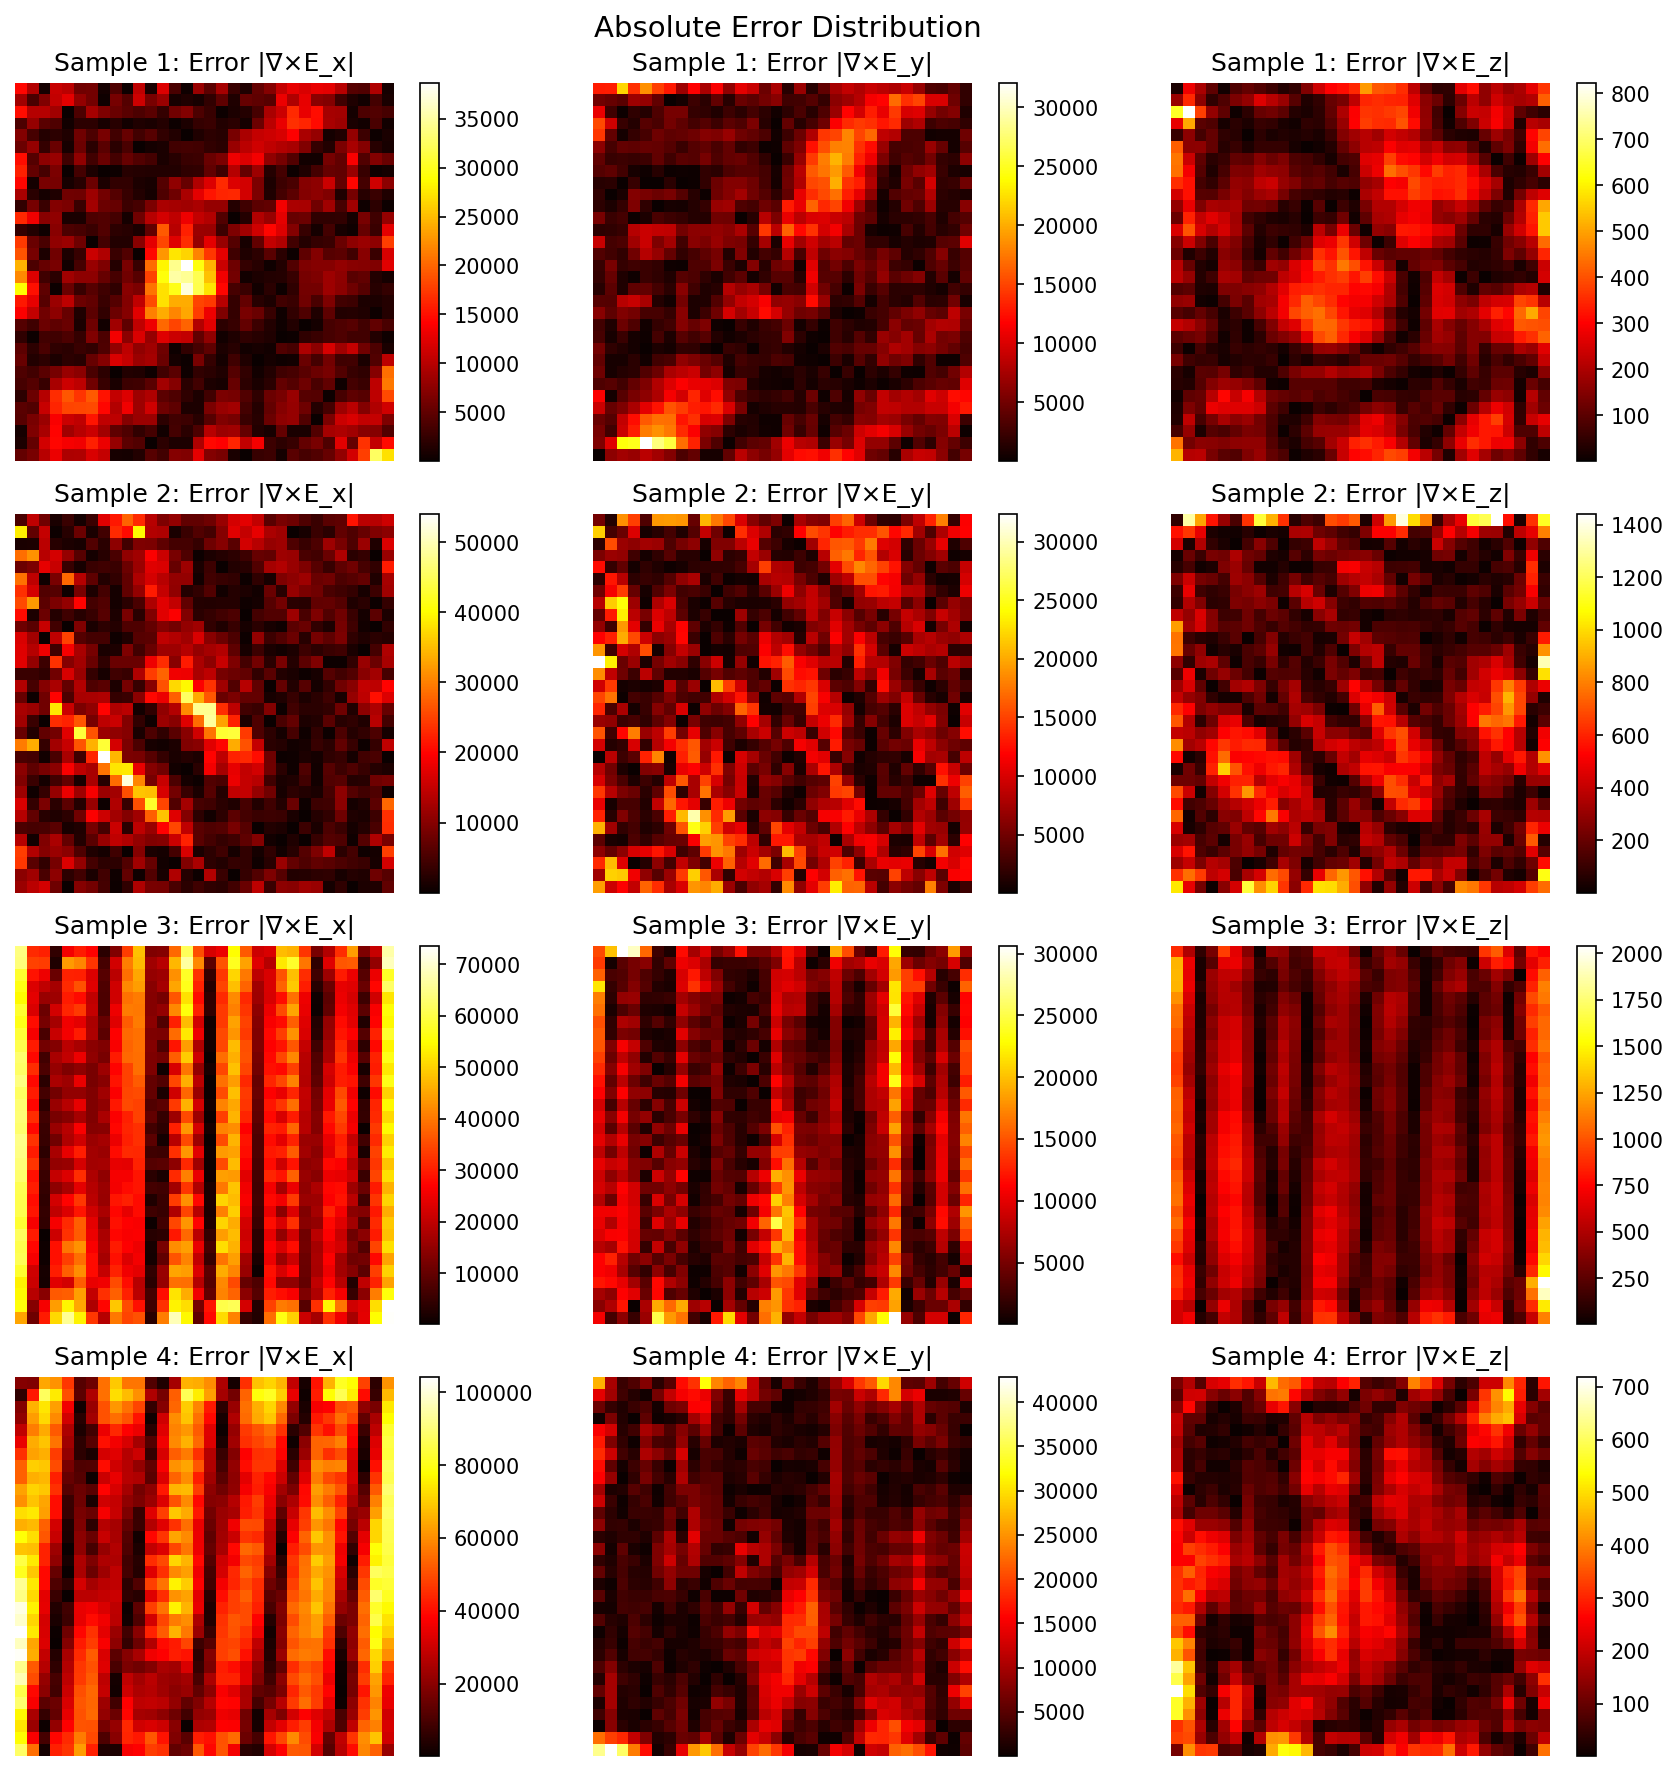
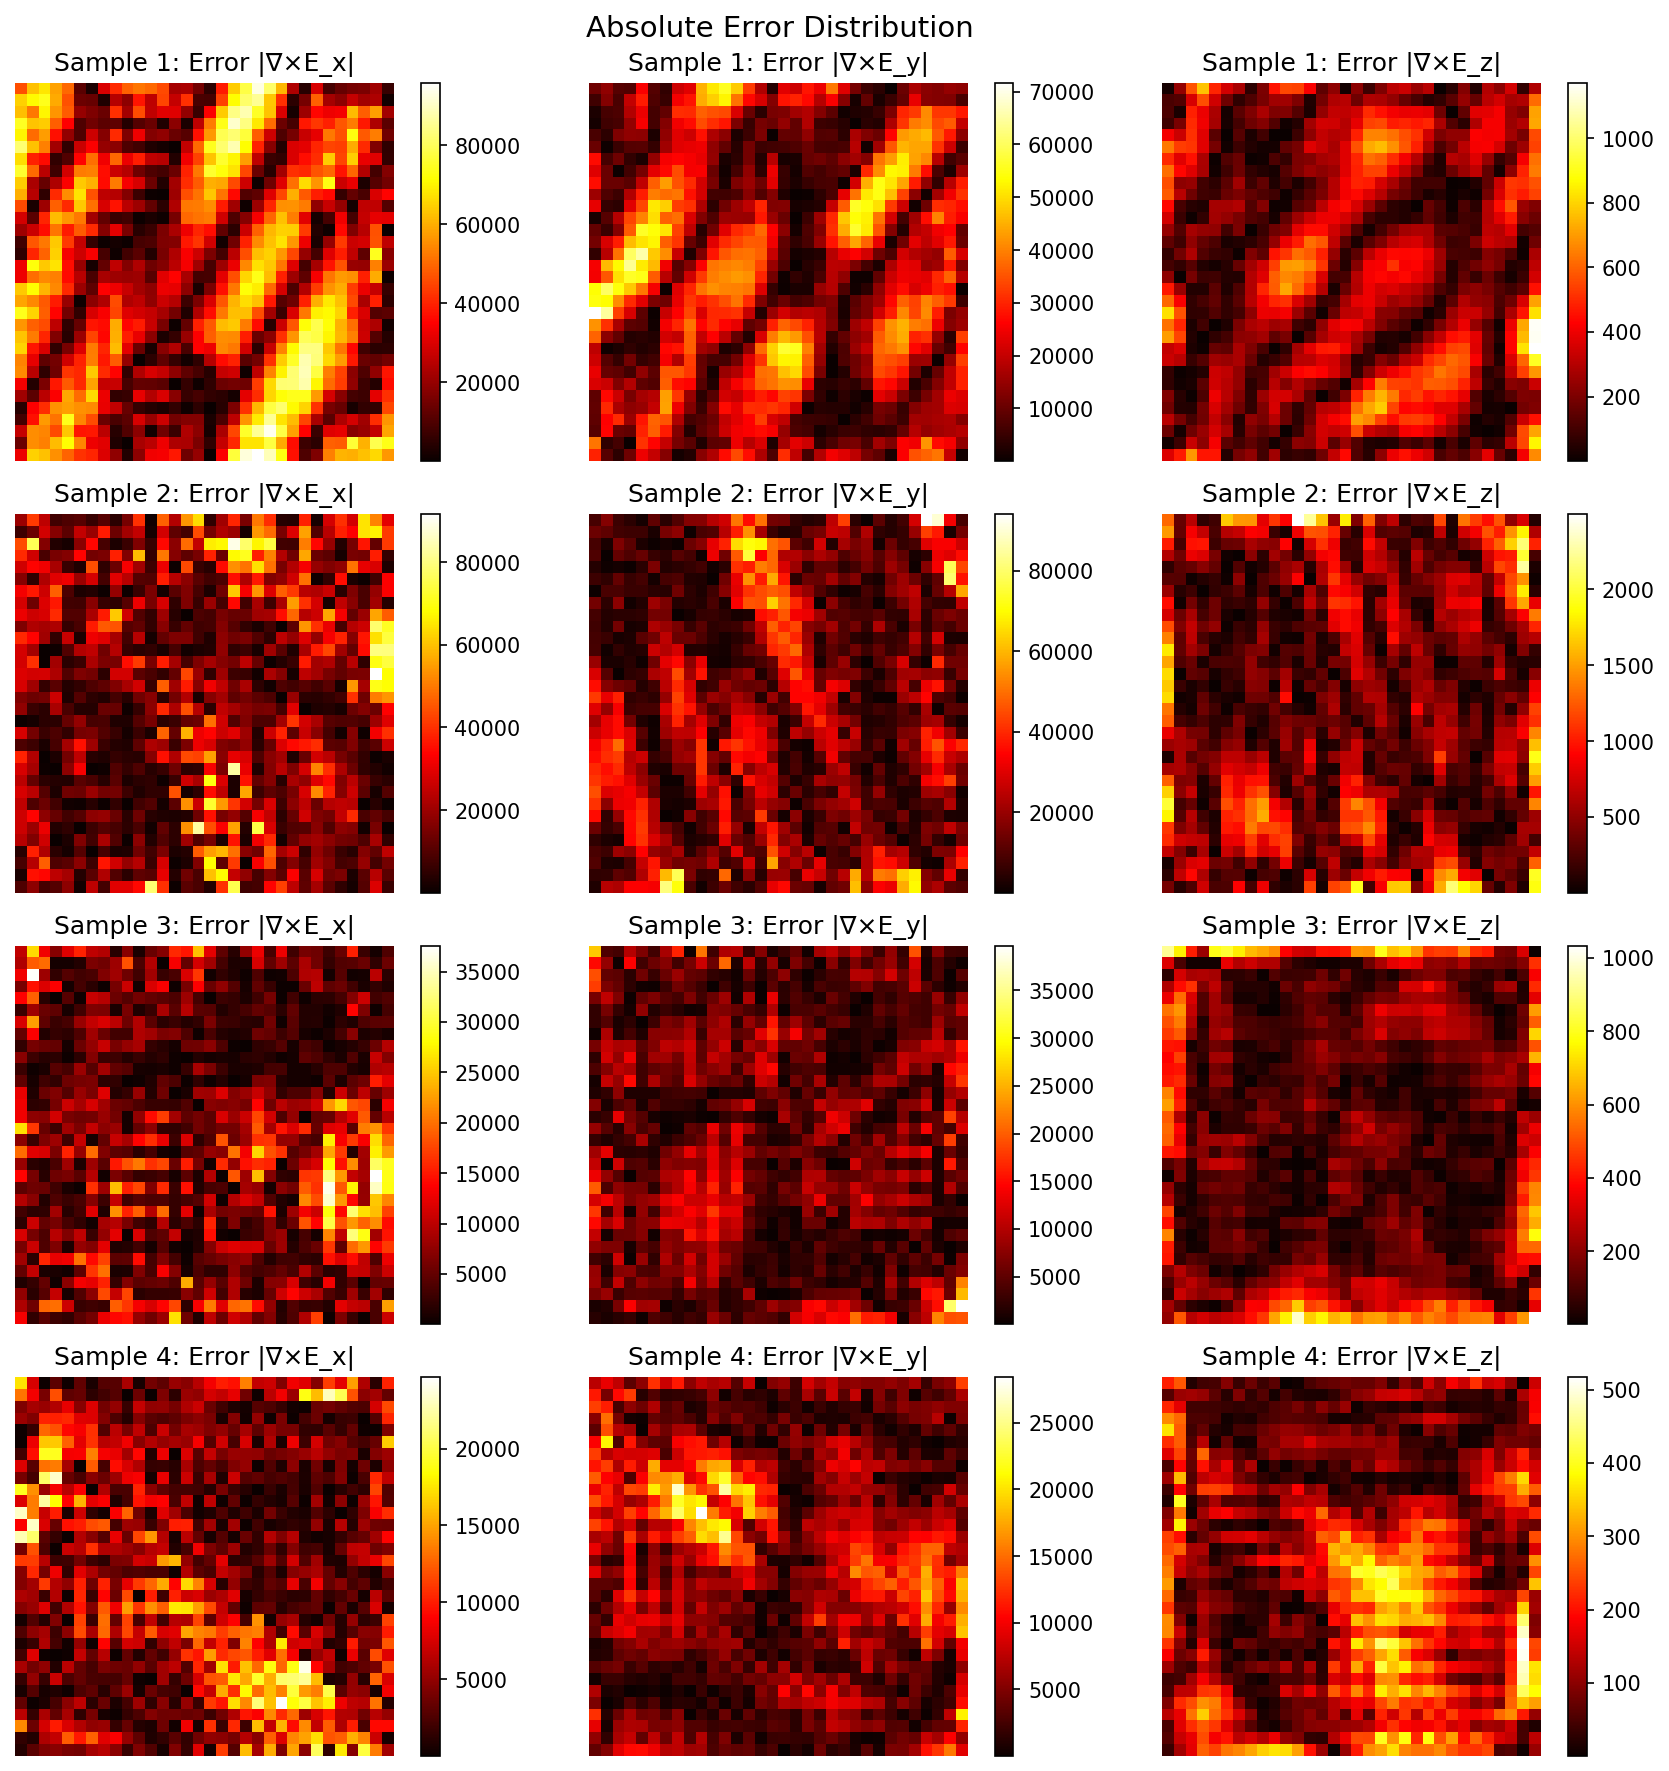
部分结果

diff --git a/main/plot.py b/main/plot.py
@@ -18,7 +18,7 @@ def visualize_results(model, dataset, device, num_samples=4, save_dir='results')
     
     with torch.no_grad():
         for i in range(num_samples):
-            E, r, curl_target = dataset[4+i]
+            E, r, curl_target = dataset[120+i]
             E = E.unsqueeze(0).to(device)
             r = r.unsqueeze(0).to(device)
             curl_pred = model(E, r).cpu().squeeze(0)
@@ -70,7 +70,7 @@ def visualize_error_distribution(model, dataset, device, num_samples=4, save_dir
     
     with torch.no_grad():
         for i in range(num_samples):
-            E, r, curl_target = dataset[4+i]
+            E, r, curl_target = dataset[120+i]
             E = E.unsqueeze(0).to(device)
             r = r.unsqueeze(0).to(device)
             curl_pred = model(E, r).cpu().squeeze(0)
